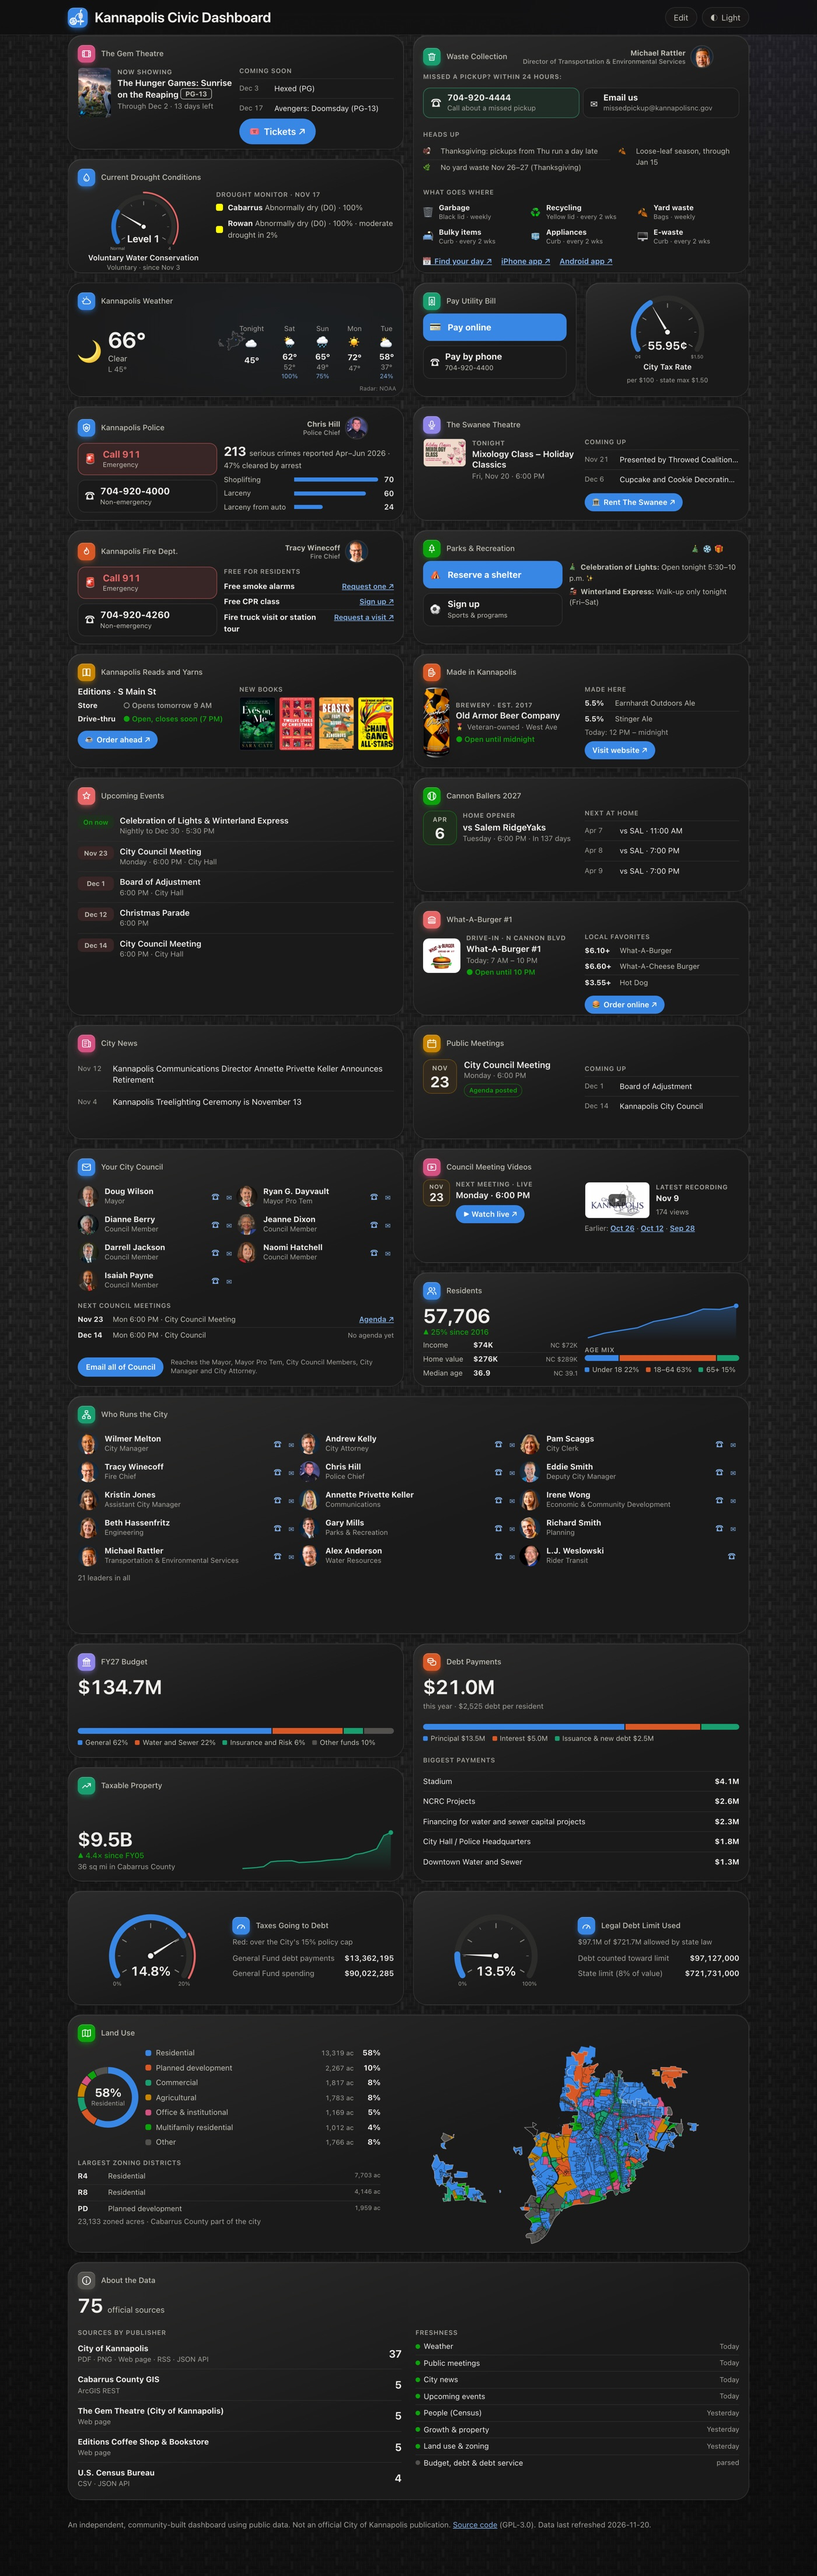
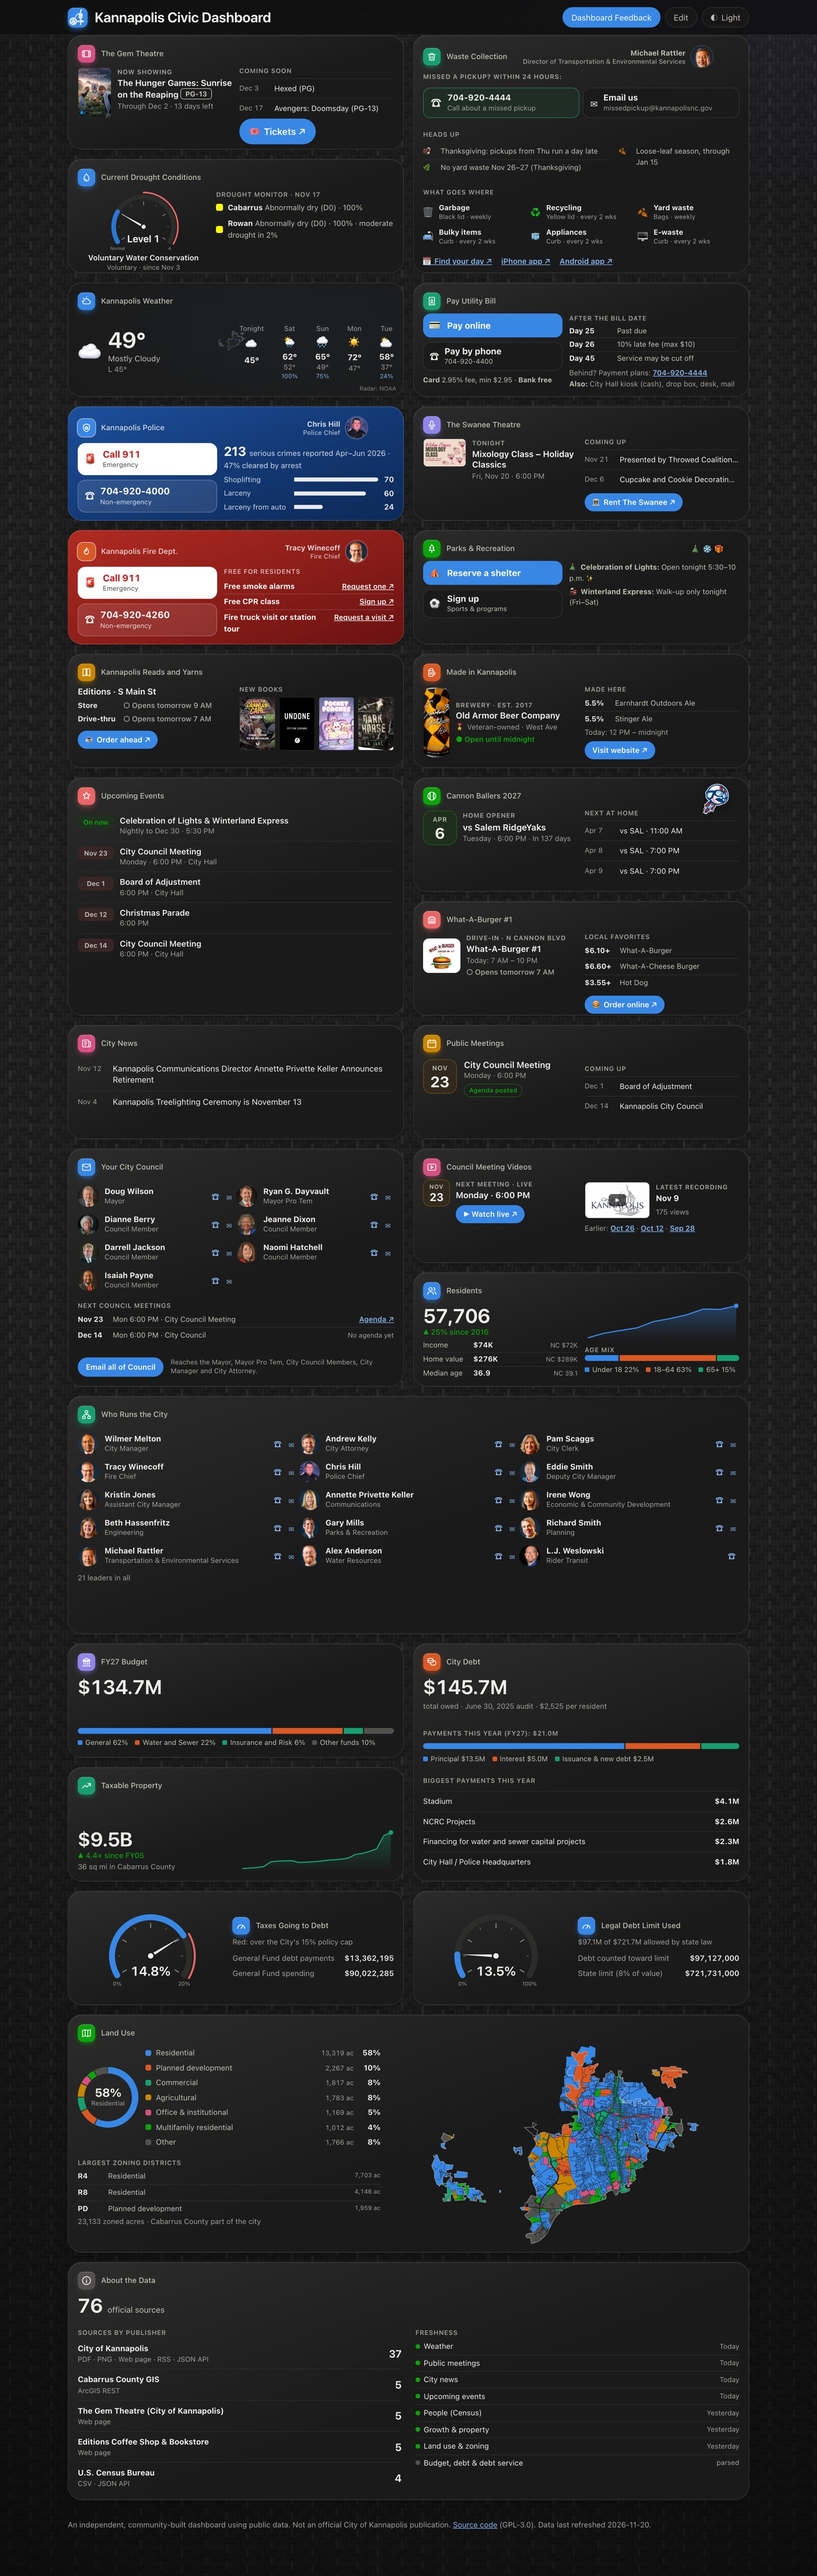
Blue police tile, red fire tile; refresh README screenshot

diff --git a/site/style.css b/site/style.css
@@ -1723,3 +1723,25 @@ body::before {
 .ub-m .ub-fee-line { white-space: nowrap; overflow: hidden; text-overflow: ellipsis; font-size: 12px; }
 #feedback-btn:hover { color: #fff; filter: brightness(1.08); }
 @media (max-width: 520px) { .topbar-row { flex-wrap: wrap; row-gap: 8px; } .topbar-actions { width: 100%; } .topbar-actions #feedback-btn { margin-right: auto; } }
+
+/* Police tile: blue. Fire tile: red. Same in light and dark themes; text tokens switch to light ink inside. */
+.tile-w[data-tile="police"], .tile-w[data-tile="fire"] {
+  --text-primary: #fff; --text-secondary: rgb(255 255 255 / .82); --text-muted: rgb(255 255 255 / .68);
+  --border: rgb(255 255 255 / .2); --grid: rgb(255 255 255 / .16); --accent: #fff;
+  color: var(--text-primary); border-color: rgb(255 255 255 / .14);
+}
+.tile-w[data-tile="police"] { --surface-1: #12366f; background: linear-gradient(160deg, #1d4f9c, #12366f 60%, #0d2a58); }
+.tile-w[data-tile="fire"] { --surface-1: #7d1717; background: linear-gradient(160deg, #b02a22, #861c18 60%, #6a1212); }
+.tile-w[data-tile="police"] .chip-icon, .tile-w[data-tile="fire"] .chip-icon { box-shadow: 0 0 0 1.5px rgb(255 255 255 / .55); }
+.tile-w[data-tile="police"] a:not(.kpd-call), .tile-w[data-tile="fire"] a:not(.kpd-call) { color: #fff; }
+/* Call buttons: translucent white; 911 is solid white with red text so it stands out on both colors. */
+.tile-w[data-tile="police"] .kpd-call, .tile-w[data-tile="fire"] .kpd-call { background: rgb(255 255 255 / .1); border-color: rgb(255 255 255 / .28); }
+.tile-w[data-tile="police"] .kpd-call.emergency, .tile-w[data-tile="fire"] .kpd-call.emergency { background: #fff; border-color: #fff; }
+.tile-w[data-tile="police"] .kpd-call.emergency b, .tile-w[data-tile="fire"] .kpd-call.emergency b { color: #c11d1d; }
+.tile-w[data-tile="police"] .kpd-call.emergency small, .tile-w[data-tile="fire"] .kpd-call.emergency small { color: #4a4a4a; }
+/* Crime bars: white (earlier quarter dimmer), legend to match. */
+.tile-w[data-tile="police"] .kpd-bar { background: rgb(255 255 255 / .9) !important; }
+.tile-w[data-tile="police"] .kpd-crime-bars .kpd-bar:not(:last-child) { background: rgb(255 255 255 / .45) !important; }
+.tile-w[data-tile="police"] .mini-legend li:not(:last-child) i { background: rgb(255 255 255 / .45) !important; }
+.tile-w[data-tile="police"] .mini-legend li:last-child i { background: rgb(255 255 255 / .9) !important; }
+.tile-w[data-tile="fire"] .kfd-num { background: #fff; color: #a3201b; }
